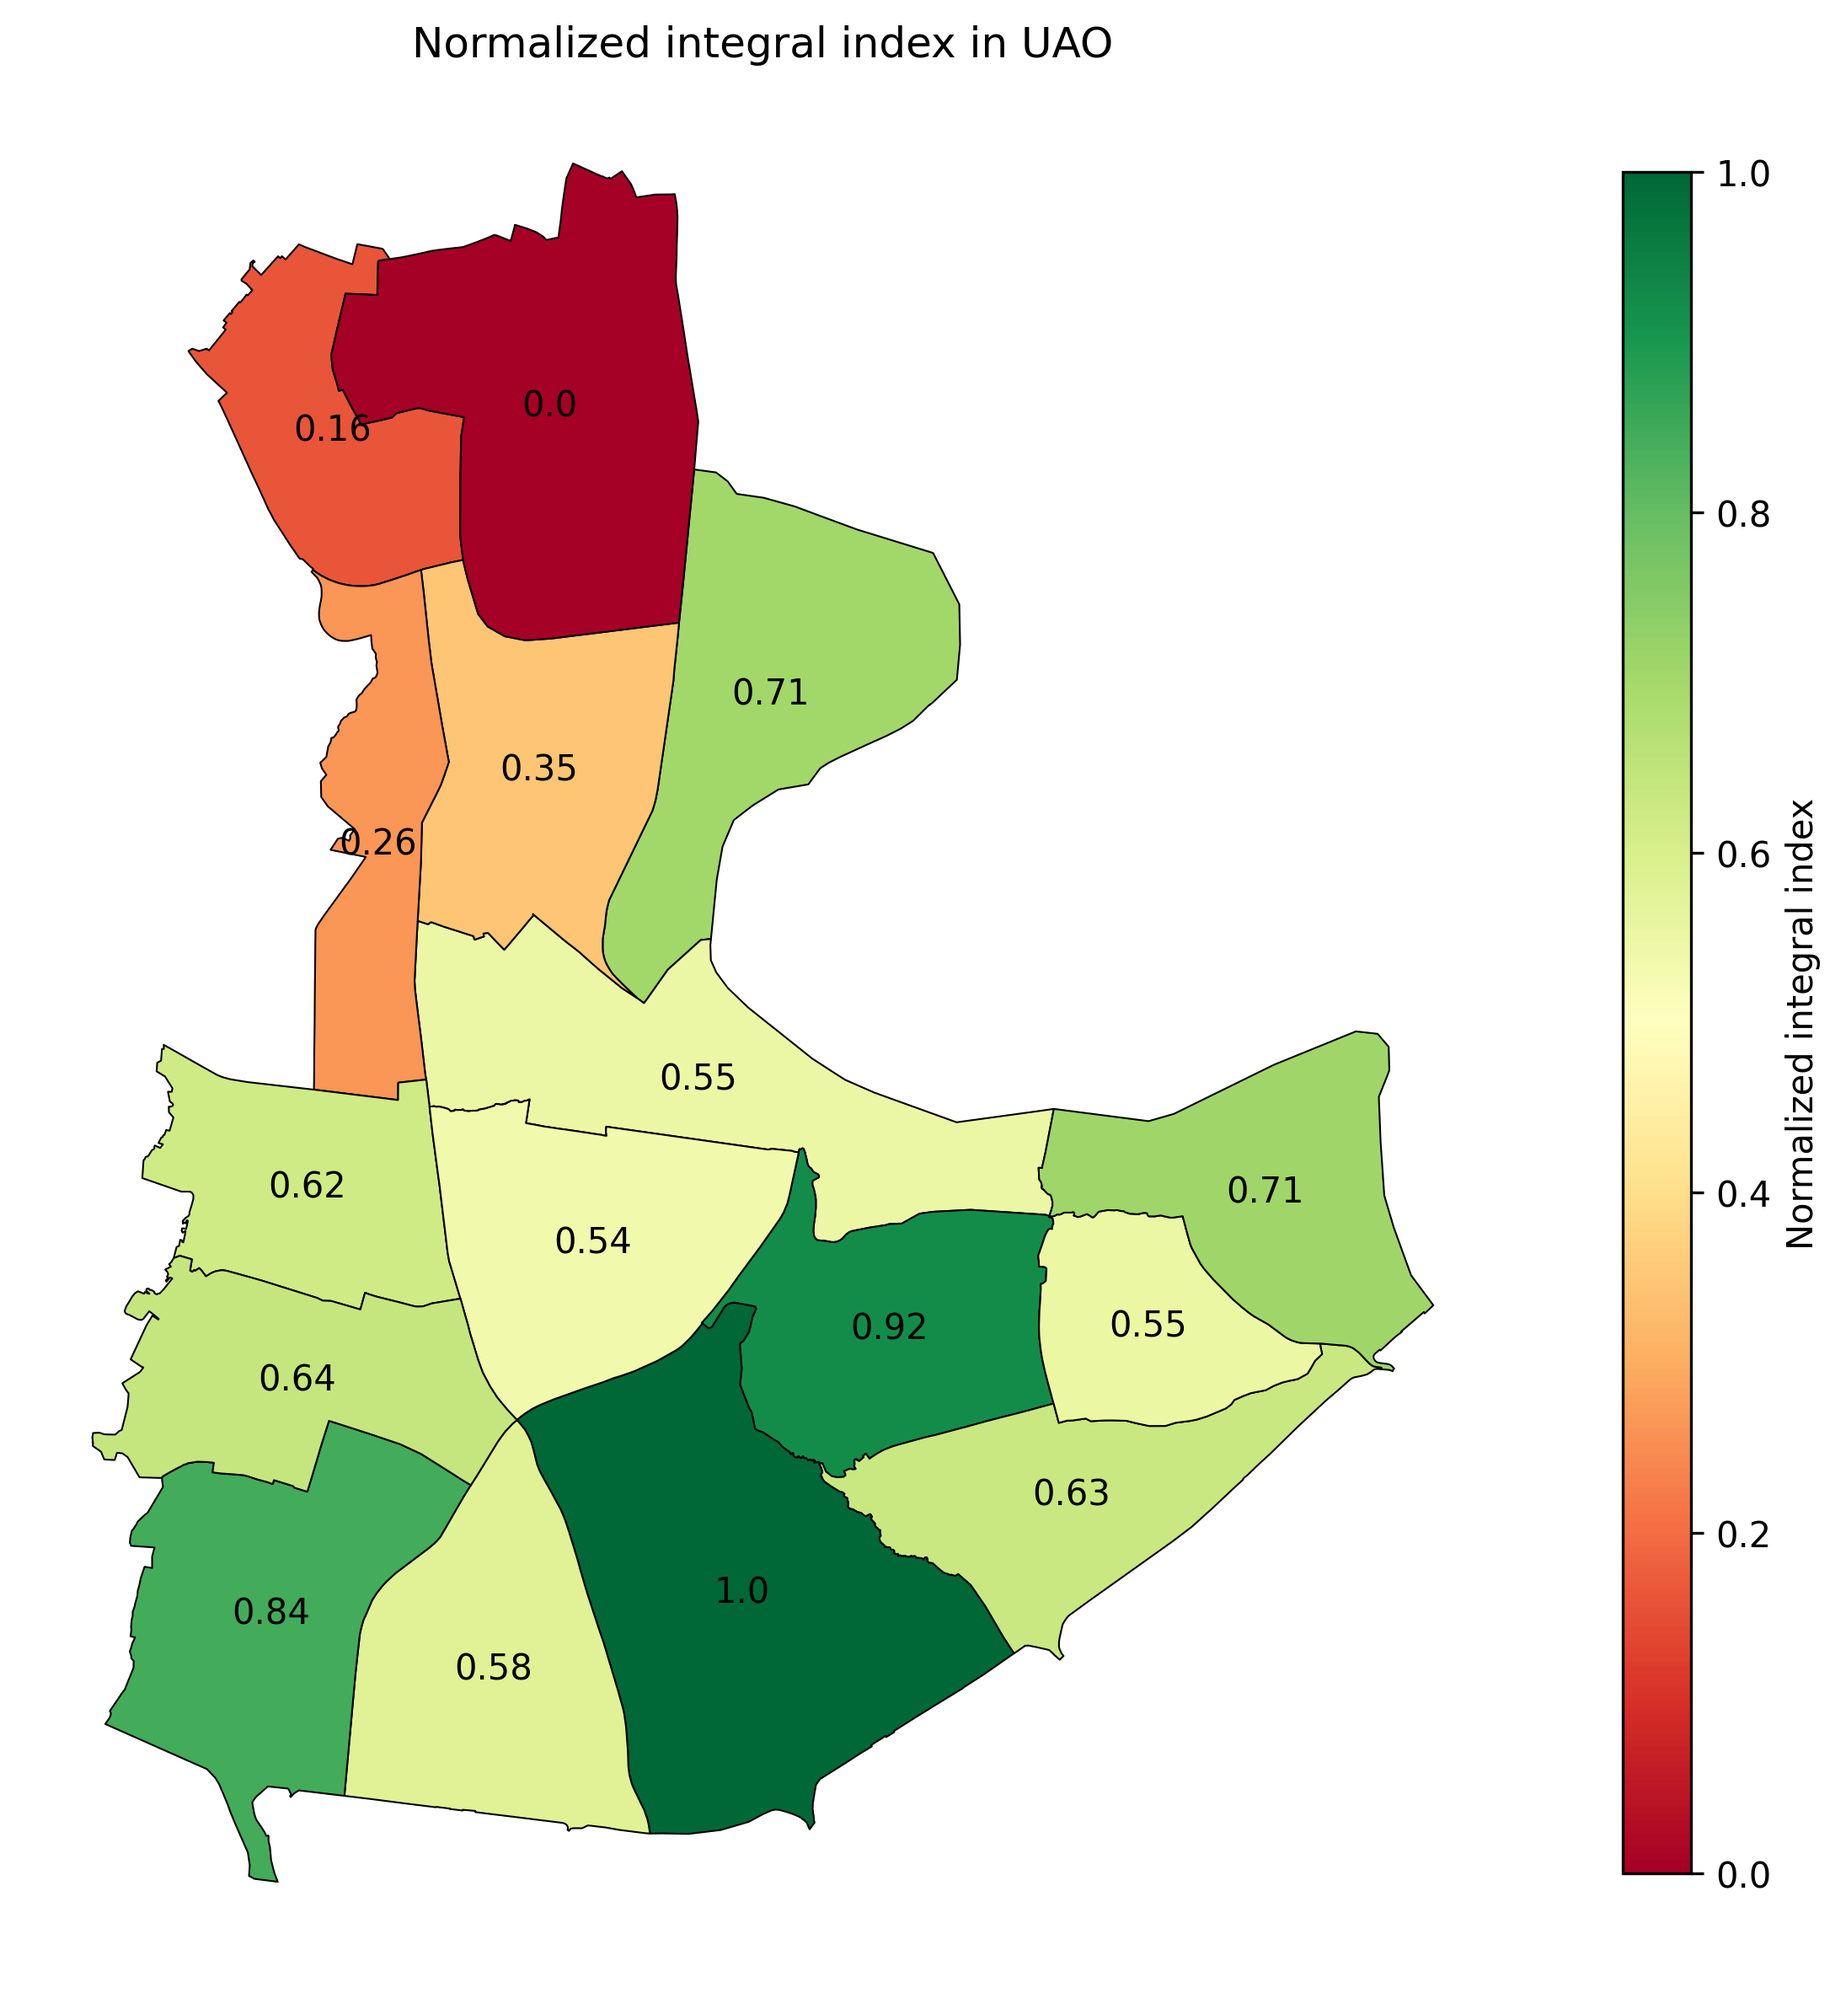
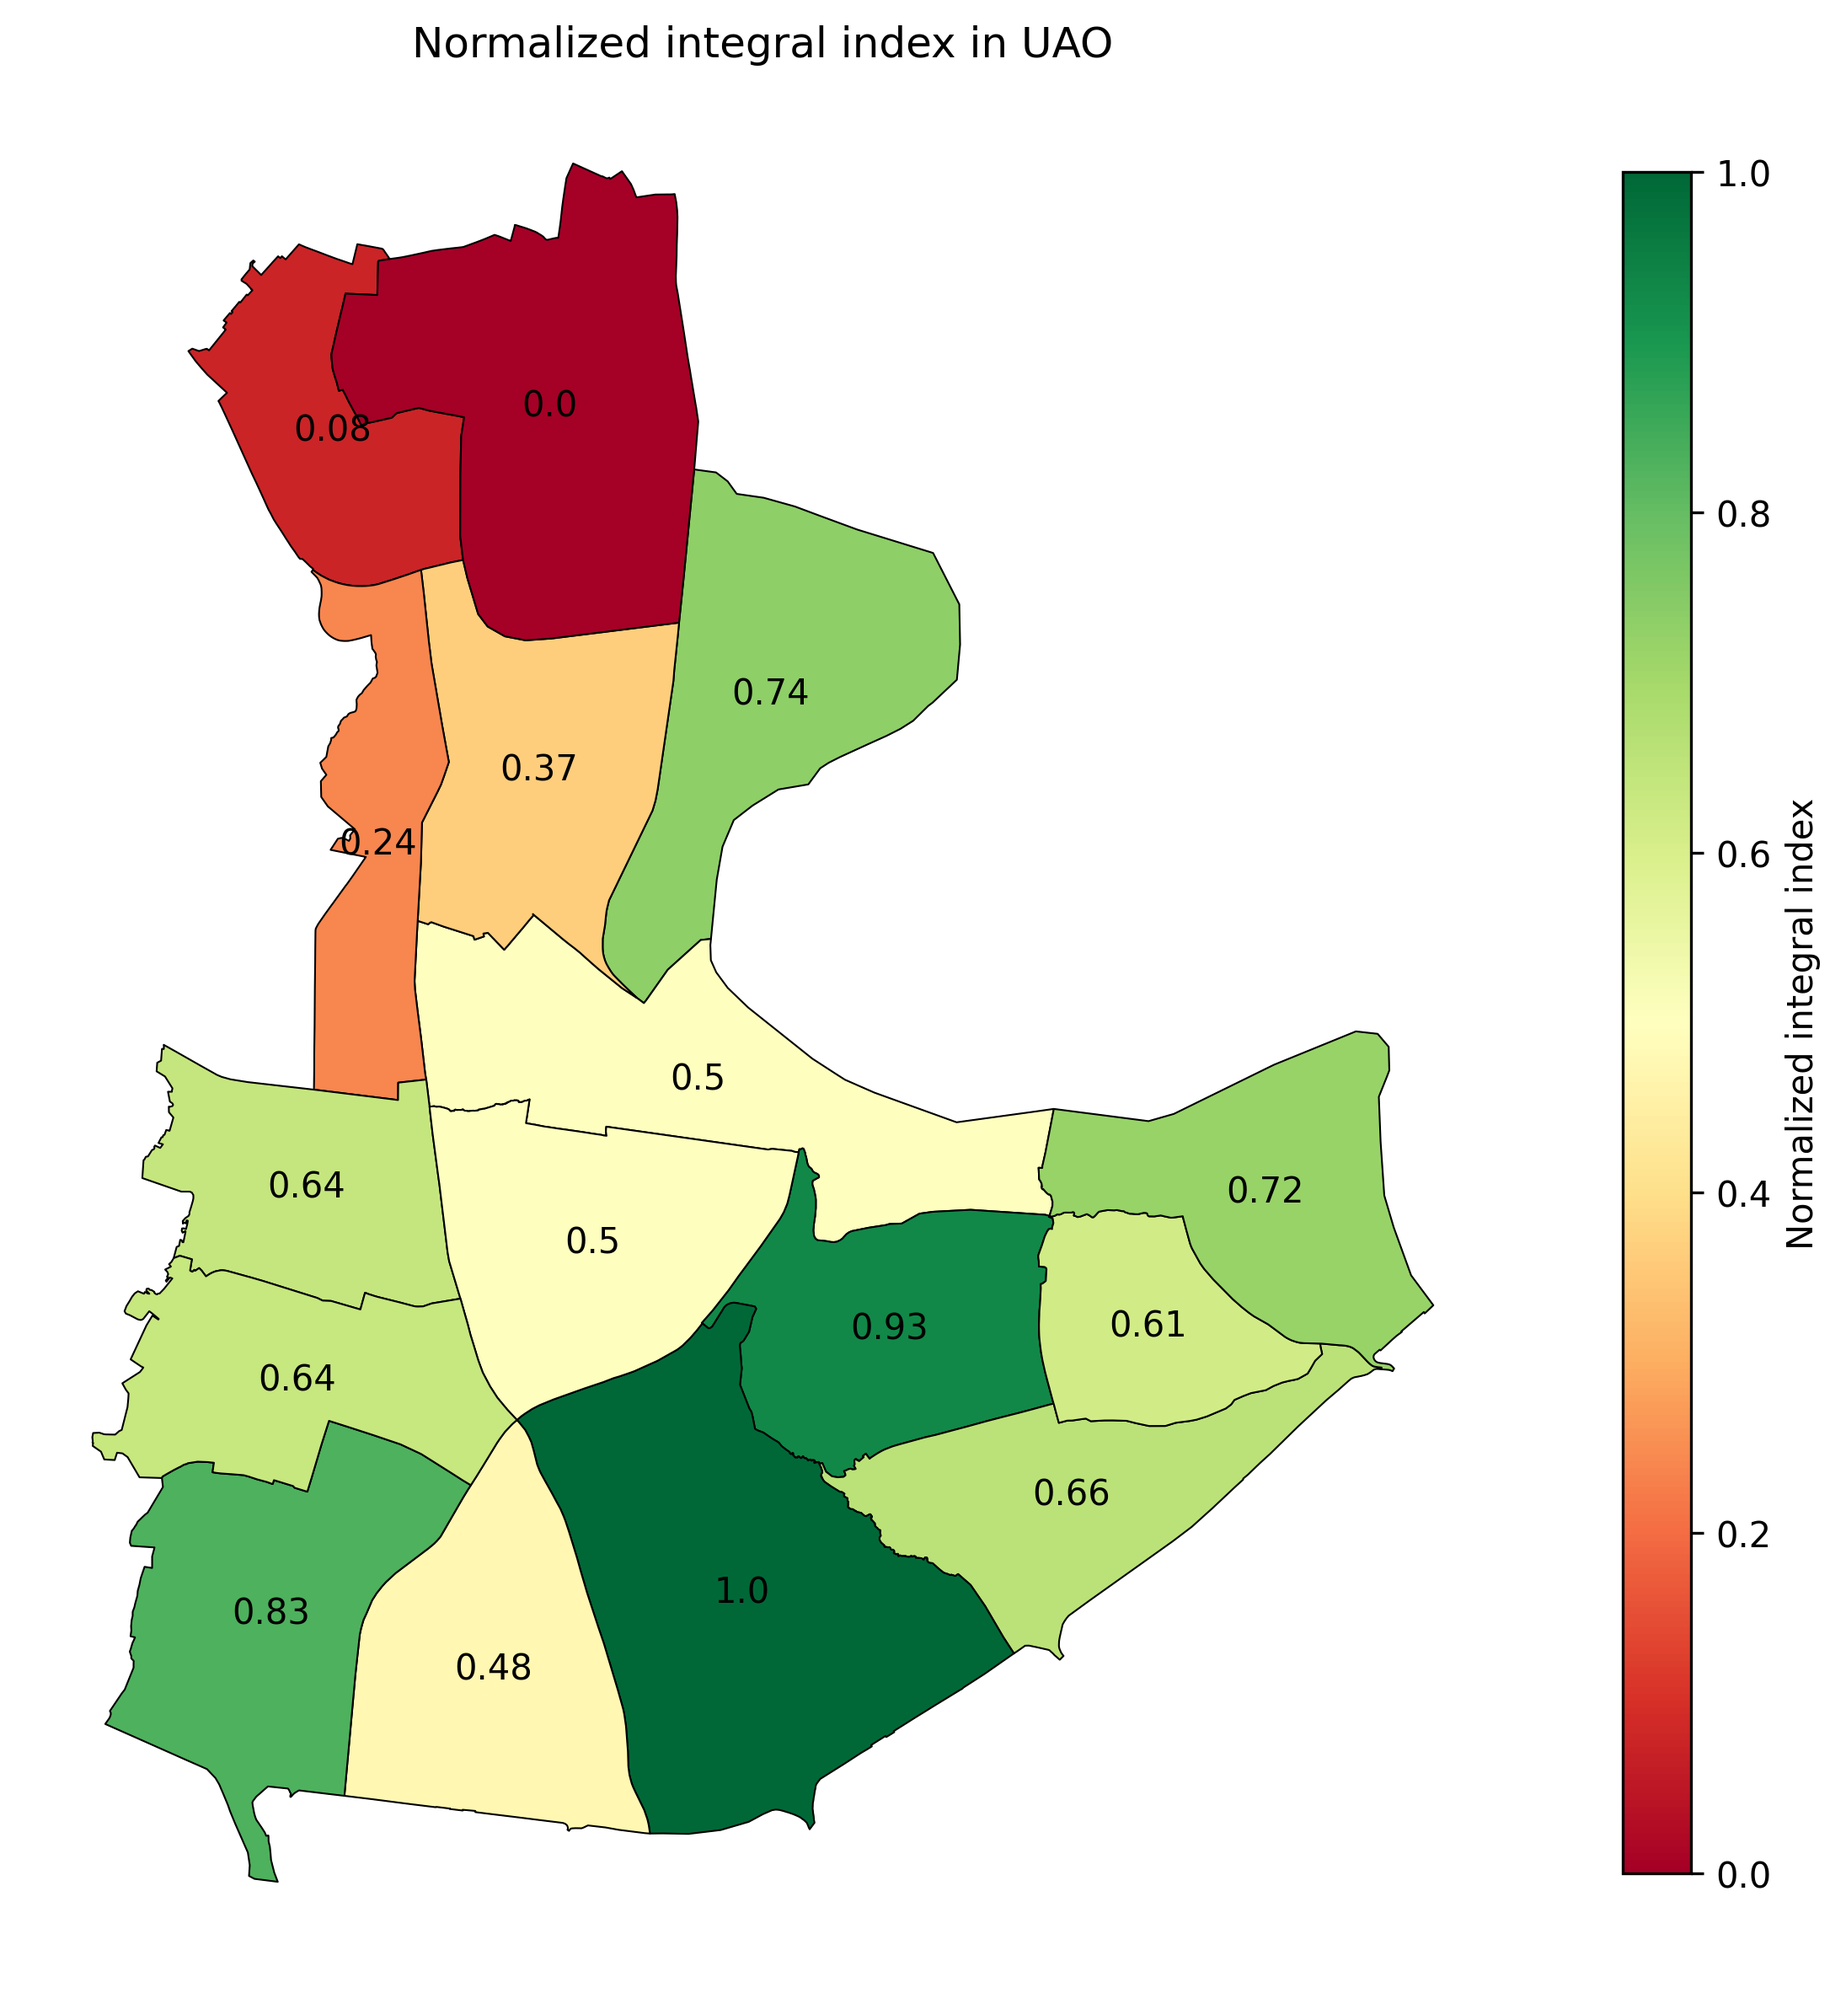
- replace buffer-based road impact with road density (km/km^2) - exluded railways from analysis

diff --git a/modules/criteria.py b/modules/criteria.py
@@ -72,33 +72,30 @@ def compute_lst(districts_ee, lst):
     
     return lst_gdf.to_crs(WGS84)
 
+# Road network density = total length of roads (km) / district area (km^2)
+def compute_roads_density(districts_gdf, roads):
+    roads['length_km'] = roads.geometry.length / 1000
 
-def compute_roads_density(districts_gdf, roads, buffer=100):
-    roads_c = roads.copy()
-    
-    roads_c['geometry'] = roads_c.geometry.buffer(buffer)
-    road_density_gdf = (
-        gpd.overlay(roads_c, districts_gdf, how='intersection', keep_geom_type=True)
-        .dissolve(by='name')
-        .reset_index())
-    
-    road_density_gdf['road_density'] = (road_density_gdf.geometry.area / 10000) / road_density_gdf['area_ha']
-    road_density_gdf = districts_gdf.merge(road_density_gdf.drop(columns=['geometry']), on='name', how='left')
+    roads = (
+        gpd.sjoin(roads, districts_gdf, how='left', predicate='intersects')
+        .groupby(by='name')['length_km'].sum()
+    )
+
+    road_density_gdf = districts_gdf.join(roads, on='name')
+    road_density_gdf['road_density'] = road_density_gdf['length_km'] / (road_density_gdf.geometry.area * 1e-6)
     
     return road_density_gdf.to_crs(WGS84)
 
-
+# Total area of buildings (ha) / district area (ha)
 def compute_build_density(districts_gdf, bld):
     bld['bld_area_ha'] = bld.geometry.area / 10000
 
-    build_density_gdf = gpd.GeoDataFrame(
+    bld = (
         gpd.sjoin(districts_gdf, bld, how='left', predicate='intersects')
-        .groupby(['name'])
-        .agg({'bld_area_ha': 'sum'})
-        .merge(districts_gdf[['name', 'area_ha', 'geometry']], on='name', how='left')
+        .groupby(by='name')['bld_area_ha'].sum()
     )
-
+    
+    build_density_gdf = districts_gdf.join(bld, on='name')
     build_density_gdf['build_density'] = build_density_gdf['bld_area_ha'] / build_density_gdf['area_ha']
-    build_density_gdf = districts_gdf.merge(build_density_gdf.drop(columns=['geometry']), on='name', how='left')
 
     return build_density_gdf.to_crs(WGS84)

diff --git a/README.md b/README.md
@@ -9,7 +9,7 @@
 - `air_pollution` - air pollution subindex based on the average of five air components: NO2, SO2, CO, O3, AOD (Sentinel-5P, MODIS)
 - `lst` - land surface temperature (combined from LANDSAT-8 and MODIS)
 - `build_density` - built-up area per district
-- `roads_density` - road network density including a buffer zone 
+- `road_density` - total length of roads per district
 
 
 ## Workflow
@@ -76,7 +76,7 @@ __Vectors__
 | ------ | ------ | ----------- |
 | districts | .gpkg  | Administrative units at the city or county scale |
 | buildings  | .gpkg  | Buildings polygons |
-| roads | .gpkg | Linear road objects (Highway and rail) |
+| roads | .gpkg | Linear highway objects |
 |        |        |             |
 
 Put the obtained data into the `data/` folder
